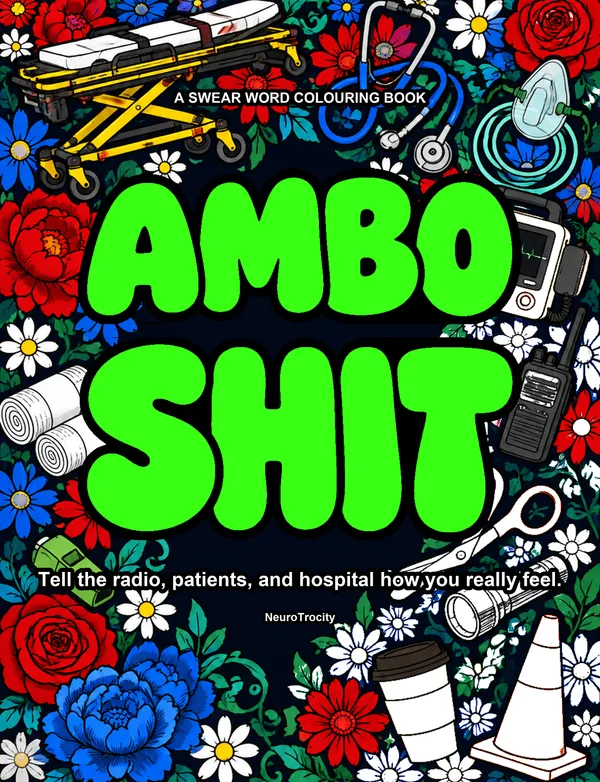
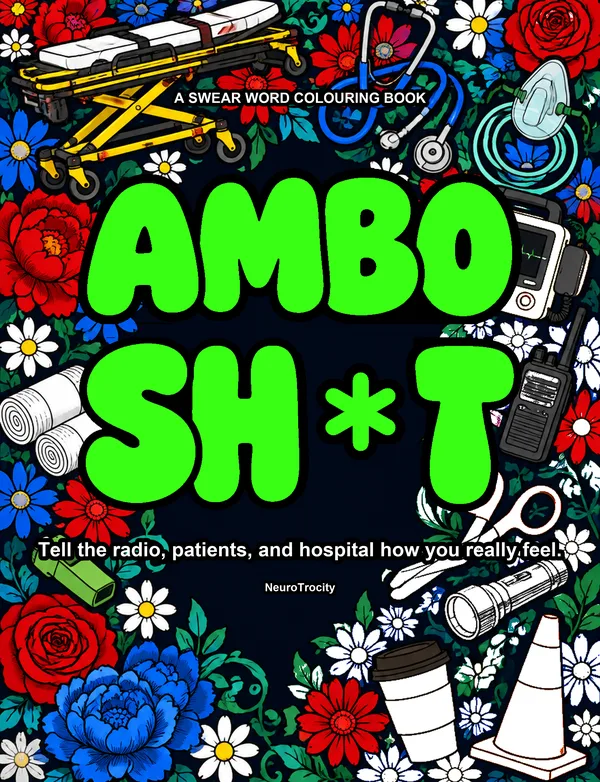
feat(products): current Nurse and Ambo covers, darker berry field for legibility

diff --git a/src/content/facts.ts b/src/content/facts.ts
@@ -230,7 +230,7 @@ export const isLive = (b: Book): b is Extract<Book, { status: 'live' }> => b.sta
 export const BOOKS: Book[] = [
   // Second editions (Oct 2026): titles uncensored to match the covers; hooks
   // are each cover's voice line, from colouring-books/<book>/kdp/listing-v2.md.
-  { slug: 'nurses', title: 'Nurse Shit', status: 'live', url: 'https://www.amazon.com.au/dp/B0HNFG6G3V',
+  { slug: 'nurses', title: 'Nurse Sh*t', status: 'live', url: 'https://www.amazon.com.au/dp/B0HNFG6G3V',
     hook: 'Tell the patients and doctors how you really feel.',
     cover: '/assets/img/books/nurses.webp',
     coverAlt: 'Cover: the title in fat teal bubble letters, framed by flowers, syringes, stethoscopes and bandages' },
@@ -242,7 +242,7 @@ export const BOOKS: Book[] = [
     hook: 'Kids suck, especially the big ones.',
     cover: '/assets/img/books/high-school.webp',
     coverAlt: 'Cover: the title in fat pink bubble letters, framed by flowers, phones, headphones, a skateboard and a basketball' },
-  { slug: 'ambos', title: 'Ambo Shit', status: 'live', url: 'https://www.amazon.com.au/dp/B0HNNYNXF1',
+  { slug: 'ambos', title: 'Ambo Sh*t', status: 'live', url: 'https://www.amazon.com.au/dp/B0HNNYNXF1',
     hook: 'Tell the radio, patients, and hospital how you really feel.',
     cover: '/assets/img/books/ambos.webp',
     coverAlt: 'Cover: the title in fat green bubble letters, framed by flowers, a stretcher, a stethoscope, a radio and a traffic cone' },

diff --git a/src/motion/cortex/palette.ts b/src/motion/cortex/palette.ts
@@ -38,11 +38,11 @@ export const PALETTES: Record<Accent, Palette> = {
     dust: 0xB98CD8,
   },
   flare: {
-    clusters: [0xFF3B2F, 0xFFC93C, 0xFF4FA3],
-    c1: [1.0, 0.231, 0.184],
-    // Hazard yellow, not the shared cyan, so the field reads crime-scene red
-    // and tape yellow rather than drifting green next to Rewire.
-    c2: [1.0, 0.788, 0.235],
-    dust: 0xD88A86,
+    clusters: [0xFF3B2F, 0xFF4FA3, 0x7C6BFF],
+    c1: [0.62, 0.10, 0.16],
+    // Deep berry, not hazard yellow: the yellow-red field washed the copy out
+    // into amber haze. Darker endpoints keep text legible over it.
+    c2: [0.40, 0.10, 0.42],
+    dust: 0xB07A9A,
   },
 };

diff --git a/tests/unit/books.test.ts b/tests/unit/books.test.ts
@@ -6,10 +6,10 @@ import { BOOKS, STORE_URL, isLive } from '../../src/content/facts';
 describe('BOOKS', () => {
   it('lists the seven titles verbatim, live first', () => {
     expect(BOOKS.map(b => [b.title, b.status])).toEqual([
-      ['Nurse Shit', 'live'],
+      ['Nurse Sh*t', 'live'],
       ['Little Kid Teacher Shit', 'live'],
       ['Big Kid Teacher Shit', 'live'],
-      ['Ambo Shit', 'live'],
+      ['Ambo Sh*t', 'live'],
       ['Gym Sh*t', 'live'],
       ['Christmas Crime Scenes', 'coming-soon'],
       ['Cop Sh*t', 'coming-soon'],

diff --git a/tests/unit/palette.test.ts b/tests/unit/palette.test.ts
@@ -6,7 +6,7 @@ describe('cortex palettes', () => {
     const p = PALETTES.flare;
     expect(p).toBeTruthy();
     expect(p.clusters[0]).toBe(0xFF3B2F);
-    expect(p.c1).toEqual([1.0, 0.231, 0.184]);
+    expect(p.c1).toEqual([0.62, 0.10, 0.16]);
   });
 
   it('keeps every shader endpoint in 0..1', () => {
